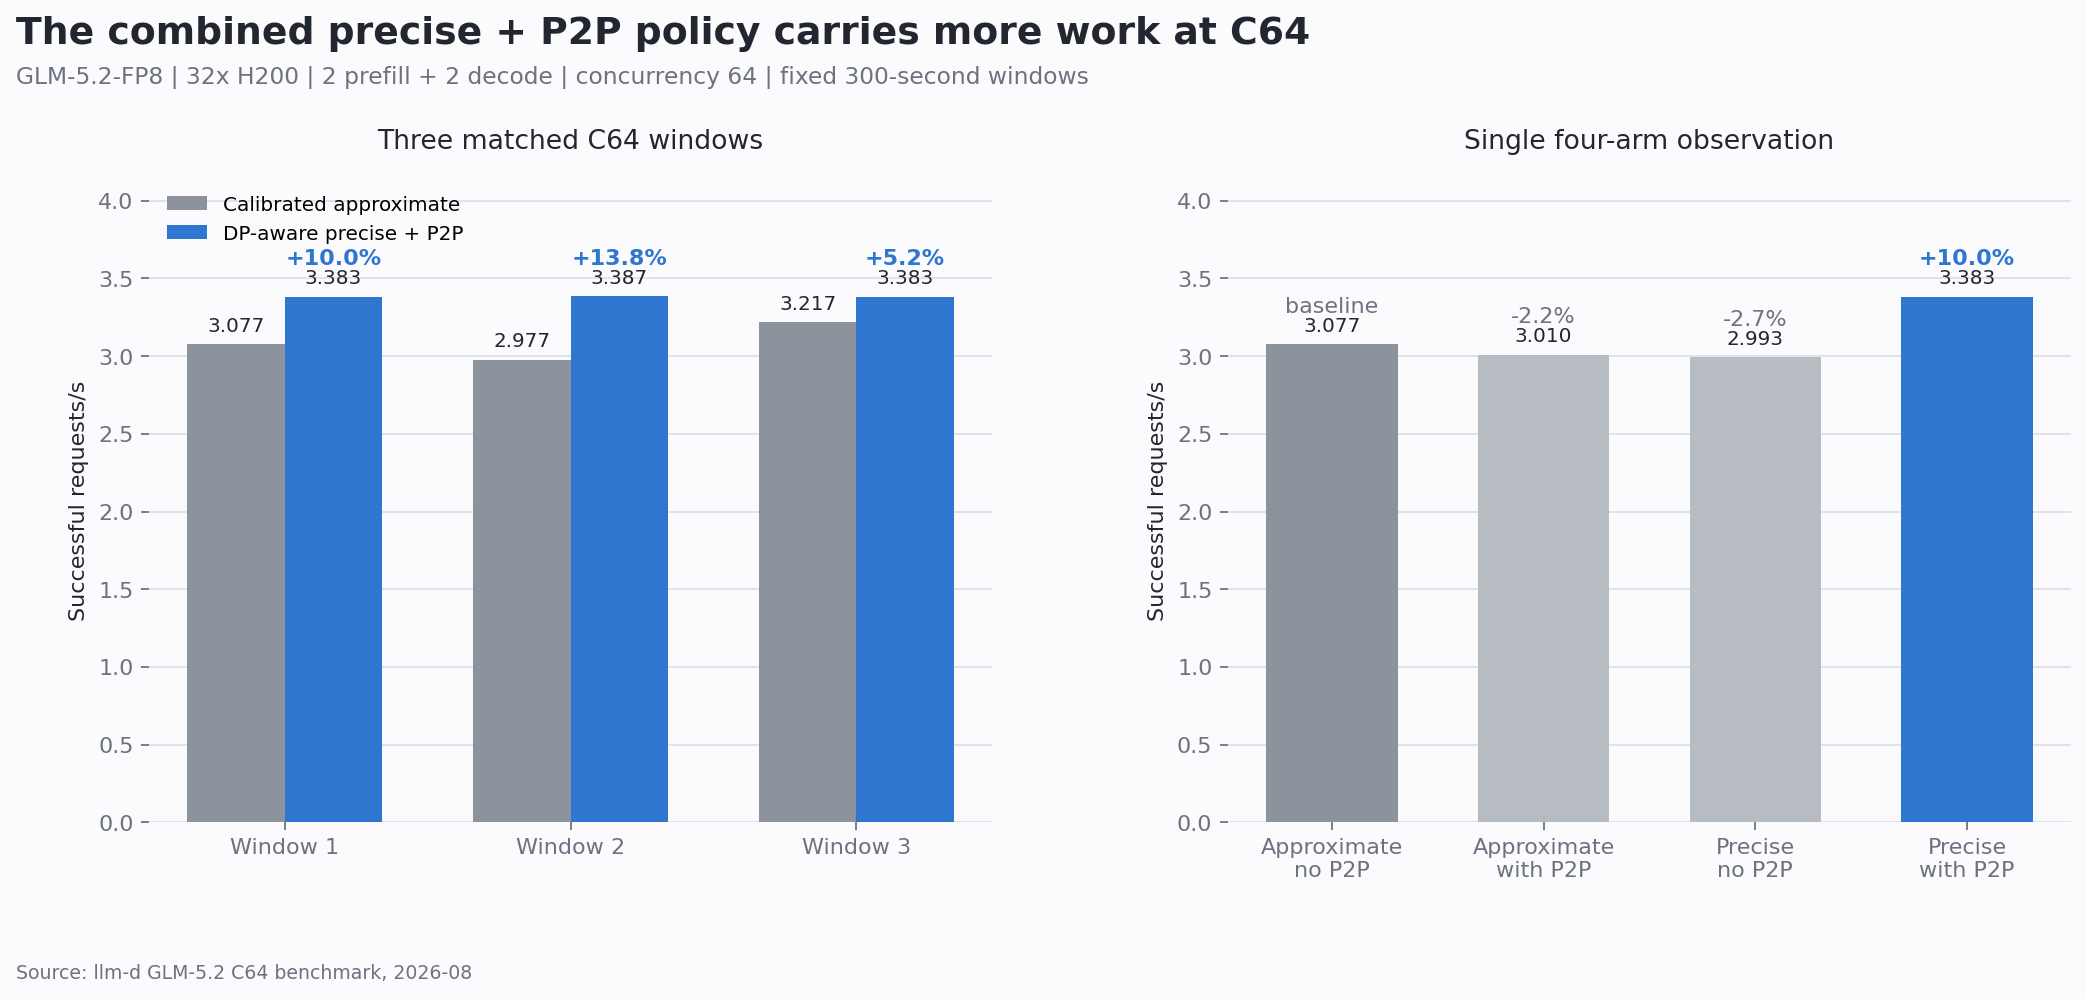
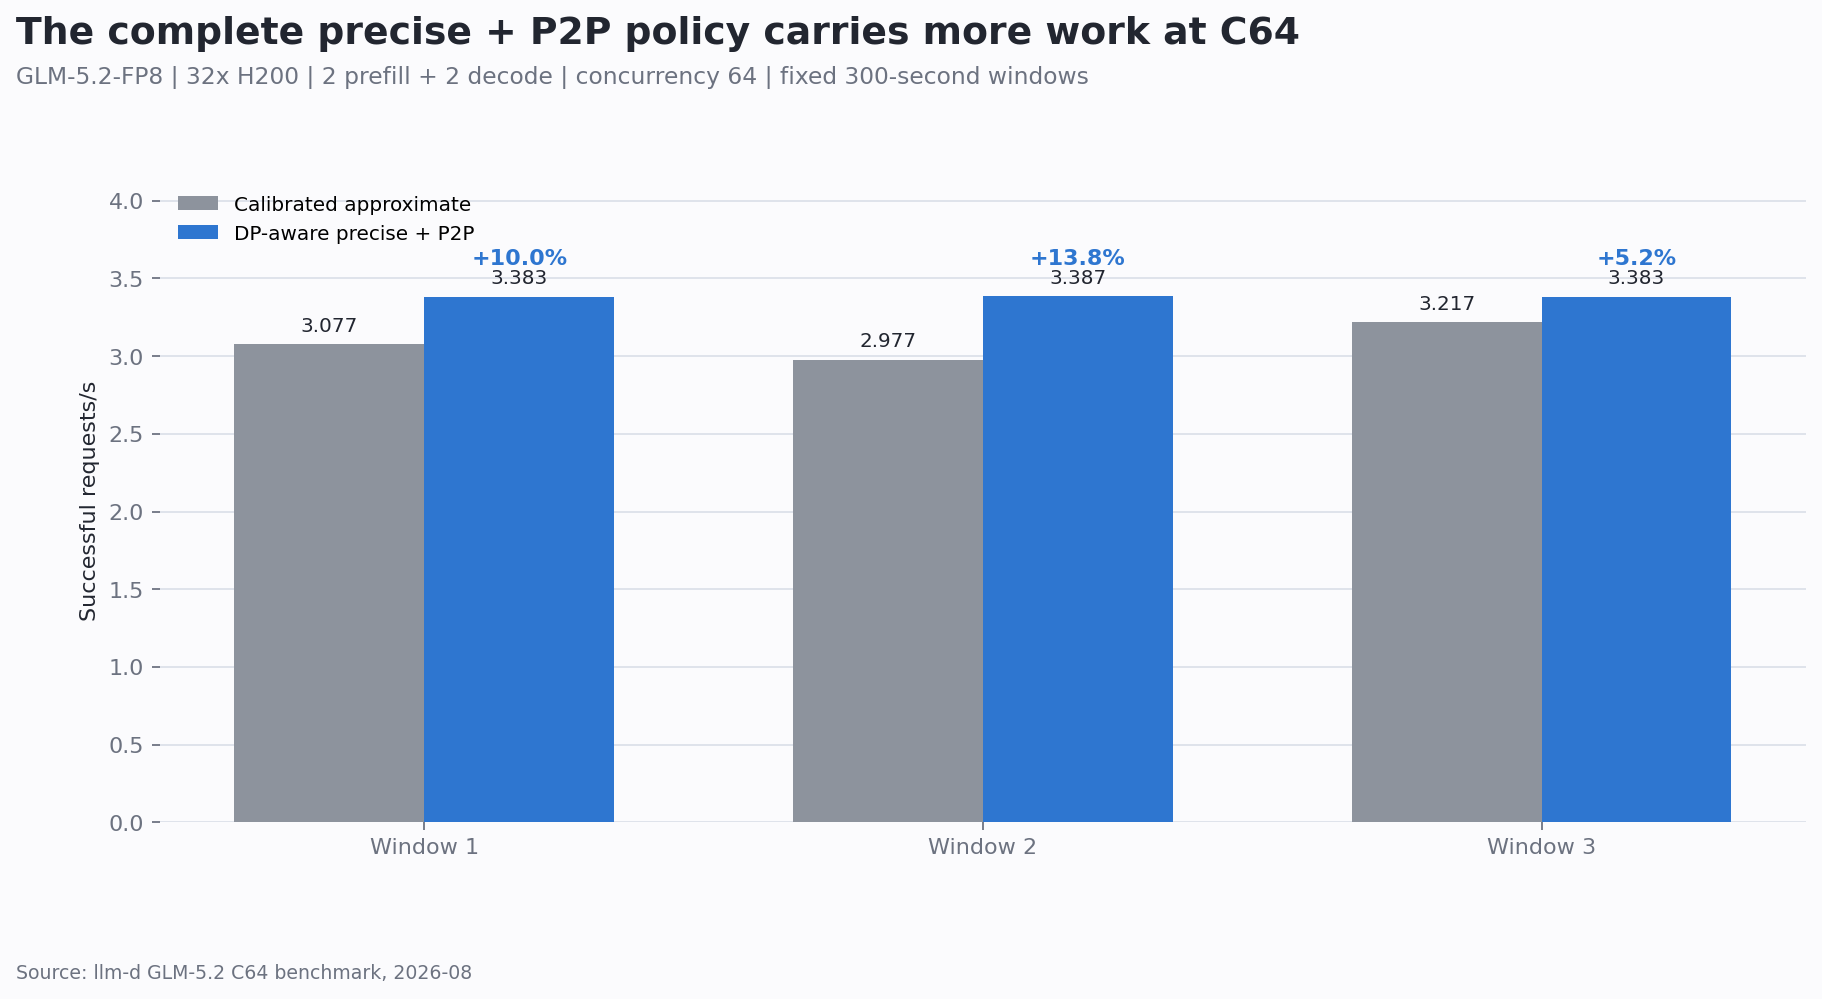
blog: qualify GLM complete-policy result
Remove the confounded four-arm attribution while retaining the repeated C64 comparison and the clean load-spill evidence for P2P alone.

diff --git a/scripts/generate-p2p-blog-charts.py b/scripts/generate-p2p-blog-charts.py
@@ -299,19 +299,9 @@ def glm_c64():
     paired_precise_p2p = np.array([3.383, 3.387, 3.383])
     paired_delta = [10.0, 13.8, 5.2]
 
-    four_labels = [
-        "Approximate\nno P2P",
-        "Approximate\nwith P2P",
-        "Precise\nno P2P",
-        "Precise\nwith P2P",
-    ]
-    four_values = np.array([3.077, 3.010, 2.993, 3.383])
-    four_delta = ["baseline", "-2.2%", "-2.7%", "+10.0%"]
-
-    fig, axes = plt.subplots(1, 2, figsize=(13.2, 6.2))
+    fig, ax = plt.subplots(figsize=(11.5, 6.2))
     style_figure(fig)
 
-    ax = axes[0]
     x = np.arange(3)
     width = 0.34
     approx_bars = ax.bar(
@@ -328,7 +318,6 @@ def glm_c64():
         color=BLUE,
         label="DP-aware precise + P2P",
     )
-    ax.set_title("Three matched C64 windows", color=FG, fontsize=12, pad=13)
     ax.set_xticks(x, ["Window 1", "Window 2", "Window 3"])
     ax.set_ylabel("Successful requests/s", fontsize=10)
     ax.set_ylim(0, 4.15)
@@ -349,32 +338,10 @@ def glm_c64():
         )
     ax.legend(frameon=False, loc="upper left", fontsize=9)
 
-    ax = axes[1]
-    colors = [GRAY, GRAY_LIGHT, GRAY_LIGHT, BLUE]
-    bars = ax.bar(np.arange(4), four_values, color=colors, width=0.62)
-    ax.set_title("Single four-arm observation", color=FG, fontsize=12, pad=13)
-    ax.set_xticks(np.arange(4), four_labels)
-    ax.set_ylabel("Successful requests/s", fontsize=10)
-    ax.set_ylim(0, 4.15)
-    ax.grid(axis="y", color=GRID, linewidth=0.8)
-    ax.set_axisbelow(True)
-    ax.bar_label(bars, fmt="%.3f", padding=4, color=FG, fontsize=9)
-    for bar, delta in zip(bars, four_delta):
-        ax.text(
-            bar.get_x() + bar.get_width() / 2,
-            bar.get_height() + 0.18,
-            delta,
-            ha="center",
-            va="bottom",
-            color=BLUE if delta.startswith("+") else MUTED,
-            fontsize=10,
-            fontweight="bold" if delta.startswith("+") else "normal",
-        )
-
     fig.text(
         0.012,
         0.955,
-        "The combined precise + P2P policy carries more work at C64",
+        "The complete precise + P2P policy carries more work at C64",
         color=FG,
         fontsize=17,
         fontweight="bold",
@@ -387,7 +354,7 @@ def glm_c64():
         fontsize=10.5,
     )
     add_source(fig, "Source: llm-d GLM-5.2 C64 benchmark, 2026-08")
-    fig.subplots_adjust(left=0.075, right=0.985, top=0.82, bottom=0.17, wspace=0.28)
+    fig.subplots_adjust(left=0.09, right=0.985, top=0.82, bottom=0.17)
     save(fig, "glm-c64-policy-comparison.png")
 
 

diff --git a/blog/2026-08-15_p2p-kv-cache-sharing-llm-d.md b/blog/2026-08-15_p2p-kv-cache-sharing-llm-d.md
@@ -35,10 +35,10 @@ where to fetch the missing prefix.
 
 :::info[Headline result]
 
-On `GLM-5.2-FP8` at concurrency 64, DP-aware precise routing with P2P
-carried 5.2-13.8% more successful requests per second than calibrated
-approximate routing without P2P across three matched 300-second windows.
-The median improvement was 10.0%.
+In a complete-policy comparison on `GLM-5.2-FP8` at concurrency 64,
+DP-aware precise routing with P2P carried 5.2-13.8% more successful requests
+per second than calibrated approximate routing without P2P across three
+matched 300-second windows. The median improvement was 10.0%.
 
 :::
 
@@ -130,10 +130,10 @@ of claims. In an isolated A/B, P2P is the only policy difference. In a
 system-policy comparison, placement or the CPU offload stack changes with it,
 so the result belongs to the complete serving policy.
 
-The three anchor results below establish the transfer economics, a wide-EP
-policy interaction under saturation, and the P/D session-continuity payoff.
-The document Q&A and smaller-model experiments then show where the same
-mechanism appears under different serving policies.
+The three anchor results below establish the transfer economics, compare a
+complete wide-EP routing policy under saturation, and measure the P/D
+session-continuity payoff. The document Q&A and smaller-model experiments then
+show where the same mechanism appears under different serving policies.
 
 ### 1. Price the Transfer Before Using It
 
@@ -174,7 +174,7 @@ plus an attention term that grows quadratically with context:
 
 The crossover moved on the 753B GLM testbed, whose KV footprint is about 93 KB
 per token. Pull and recompute were roughly tied near 8K tokens; at 12K the pull
-was 27% faster, and at 24K it was 61% faster. A 24K prefix is about 2.2 GiB of
+was 27% faster, and at 24K it was 61% faster. A 24K prefix is about 2.1 GiB of
 KV, while a 70K prefix is about 6.2 GiB. Break-even depends on the ratio of
 prefill cost to KV-transfer cost, not model size alone. On the GLM rig,
 short-prefix recompute stayed below the measured 1.2-1.3 second pull floor, so
@@ -194,7 +194,7 @@ behave when exact cache-location information is paired with peer retrieval
 under saturation?
 
 <details>
-<summary>Setup: GLM-5.2-FP8 on 32x H200 P/D-disaggregated; four routing policies; AIPerf trace replay at concurrency 64</summary>
+<summary>Setup: GLM-5.2-FP8 on 32x H200 P/D-disaggregated; repeated complete-policy pair; AIPerf trace replay at concurrency 64</summary>
 
 The 753B MoE runs on two prefill and two decode instances, each 8-way
 data/expert parallel. AIPerf replays 48 entries from the SemiAnalysis Weka
@@ -205,17 +205,20 @@ this is a matched saturation snapshot rather than a measurement through full
 workload completion.
 
 The repeated baseline is calibrated approximate routing without P2P. The
-candidate combines DP-aware precise KV events, GPU/CPU cache weights 1.0/0.4,
-and `p2p-source-producer` at `minCachedTokenDelta: 2048`. Both use the same
-measured `peakPrefillThroughput: 5541` and 55-second affinity-penalty budget.
-The comparison therefore belongs to the complete routing policy, not to P2P
-or precision alone.
+candidate combines DP-aware precise KV events, speculative indexing, GPU/CPU
+cache weights 1.0/0.4, and `p2p-source-producer` at
+`minCachedTokenDelta: 2048`. Both use the same measured
+`peakPrefillThroughput: 5541` and 55-second affinity-penalty budget.
 
 </details>
 
+This is a complete-policy comparison: the candidate changes both the cache
+index and peer retrieval, so the margin cannot be assigned to precision or
+P2P alone.
+
 <div style={{textAlign: 'center', margin: '20px 0'}}>
-  <img src="/img/blogs/p2p-kv-cache/glm-c64-policy-comparison.png" alt="Two-panel bar chart showing precise plus P2P carrying more successful requests per second than approximate routing in three paired C64 windows, while only the combined policy wins in a single four-arm ablation" style={{width: '100%', height: 'auto'}} />
-  <p style={{fontSize: '0.9em', marginTop: '8px'}}><em>The complete precise+P2P policy improves successful throughput in all three matched windows. The single-factor arms have one observation each.</em></p>
+  <img src="/img/blogs/p2p-kv-cache/glm-c64-policy-comparison.png" alt="Bar chart showing the complete precise plus P2P policy carrying more successful requests per second than calibrated approximate routing in three paired C64 windows" style={{width: '100%', height: 'auto'}} />
+  <p style={{fontSize: '0.9em', marginTop: '8px'}}><em>The complete precise+P2P policy improves successful throughput in all three matched windows.</em></p>
 </div>
 
 Successful throughput improved by 10.0%, 13.8%, and 5.2%, for a 10.0%
@@ -223,35 +226,41 @@ paired median. Input-token throughput improved by 12.9%, 17.2%, and 5.3%.
 The latency signal is less stable: p90 end-to-end latency improved by 13.8%
 and 12.2% in two windows and was 1.2% worse in the reversed-order window.
 The repeatable result is higher successful throughput, not a guaranteed
-latency reduction in every cut.
+latency reduction in every cut. Only successful requests that reached a
+terminal state by the cutoff enter those latency percentiles, so the arm
+populations differ and the latency comparison is directional.
 
-One window included the two single-factor controls:
-
-| Routing | P2P | Successful req/s | Change from approximate without P2P |
-|---|---:|---:|---:|
-| Approximate | no | 3.077 | baseline |
-| Approximate | yes | 3.010 | -2.2% |
-| Precise | no | 2.993 | -2.7% |
-| Precise | yes | 3.383 | **+10.0%** |
-
-Neither factor wins by itself in that observation. The result supports an
-interaction: the precise index identifies which data-parallel rank holds
-reusable KV, and P2P makes that location actionable when placement selects a
-different rank. The middle arms need repeated, counterbalanced measurements
-before the gain can be divided quantitatively between the two features.
+A four-arm DEBUG snapshot was also collected, but it is not used for factor
+attribution. Its archived approximate+P2P arm renamed the approximate prefix
+producer without configuring the in-flight load producer to read that name,
+which confounded its load accounting. The repeated baseline and candidate do
+not depend on that control.
 
 The engine metrics show the corresponding change in prefill pressure.
 Approximate routing's prefill queue p90 ranges from 12.8 to 13.7 requests;
-precise+P2P ranges from 8.0 to 9.0. The DEBUG window records 12 peer-load
-submissions, 12 unique transfer IDs, 17 successful transfer rounds, and 6,342
-transferred KV blocks. At the observed block size that implies 20.69 GiB of
-peer payload, but it remains an inferred volume because the available generic
-NIXL and offload counters also include non-P2P traffic. The DP-aware event path
-also avoids the rank-0 concentration seen with a pod-only identity.
+precise+P2P ranges from 8.0 to 9.0. The DEBUG window records 13 source request
+IDs, 12 peer-load submissions, 12 unique transfer IDs, 17 successful transfer
+rounds, and 6,342 submitted KV blocks. These counters instrument different
+pipeline stages and are not expected to be one-to-one. The available generic
+NIXL and offload counters also include non-P2P traffic, so the block count is
+not converted into a peer-byte claim.
+
+The DP-aware event path does not collapse work onto rank 0: the two rank-0
+engines account for 8.3-17.1% of prefill successes across the three windows,
+versus a 12.5% even two-rank share. This rules out a rank-0 collapse, not rank
+imbalance in general.
 
 This run used a 2,048-token source threshold, below the separate GLM crossover
 recommendation of 12,288 tokens. It therefore describes the measured policy as
 configured; it does not establish that 2,048 is the best production setting.
+
+A separate GLM load-spill A/B isolates the pull under identical placement.
+Adding `p2p-source-producer` reduced mean TTFT from 7.85 to 2.56 seconds
+(-67%) and raised throughput from 3.80 to 10.10 requests per second (2.7x).
+The result reproduced in a separately built fleet. That matched run did not
+record per-repetition transfer counters; pull-path liveness was established by
+the direct source-pull measurement above. The load-spill result measures P2P
+alone, while the C64 result compares complete routing policies.
 
 A smaller `Llama-3.1-8B` shared-prefix pool provides the clean P2P-only A/B.
 At 8 requests per second, P2P reduced median request latency by 43%. Near
